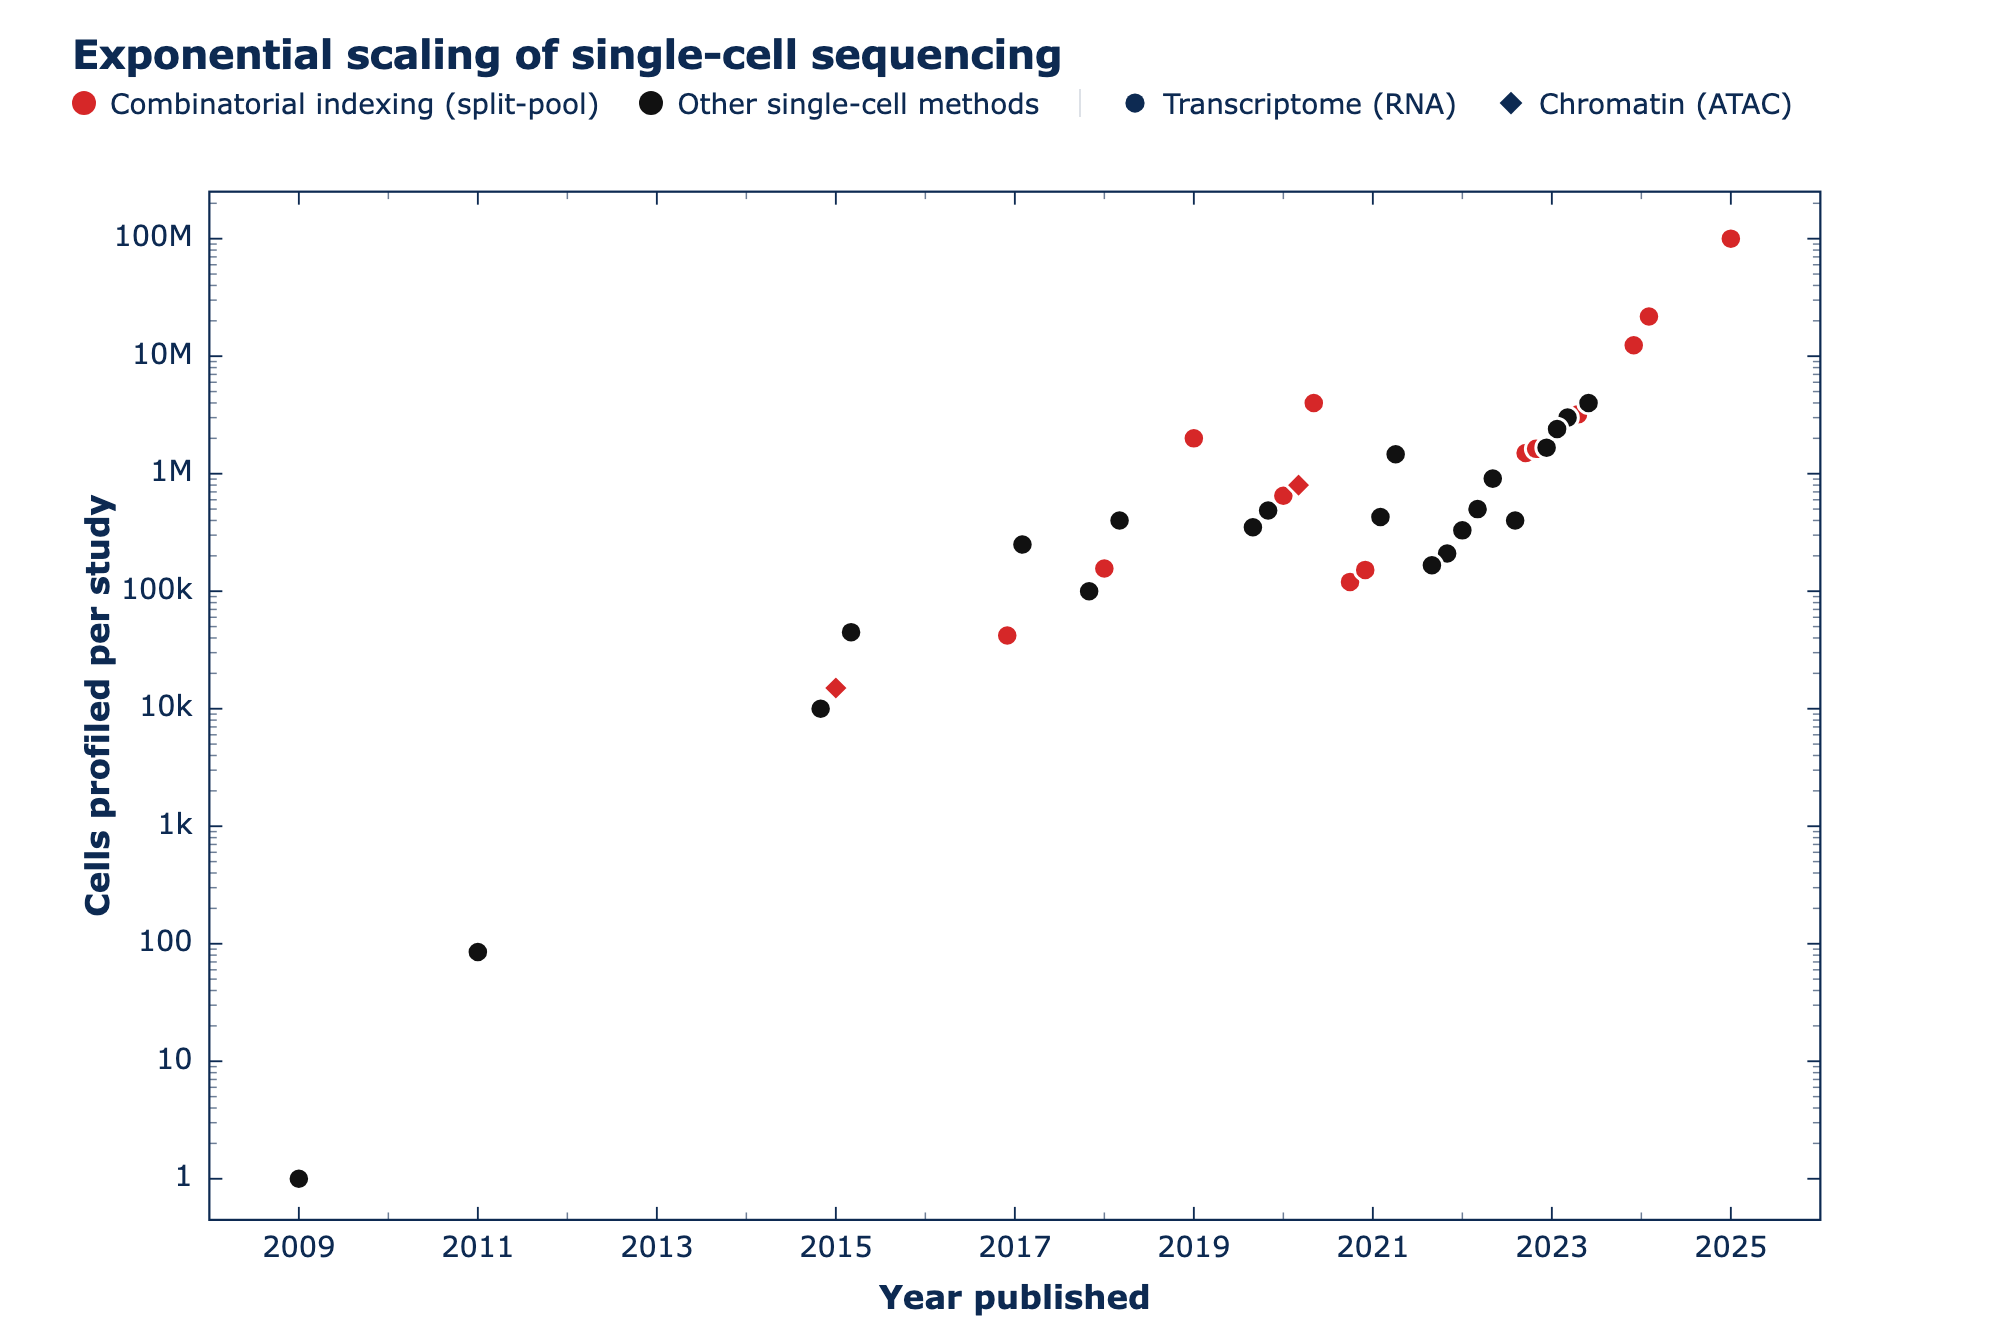
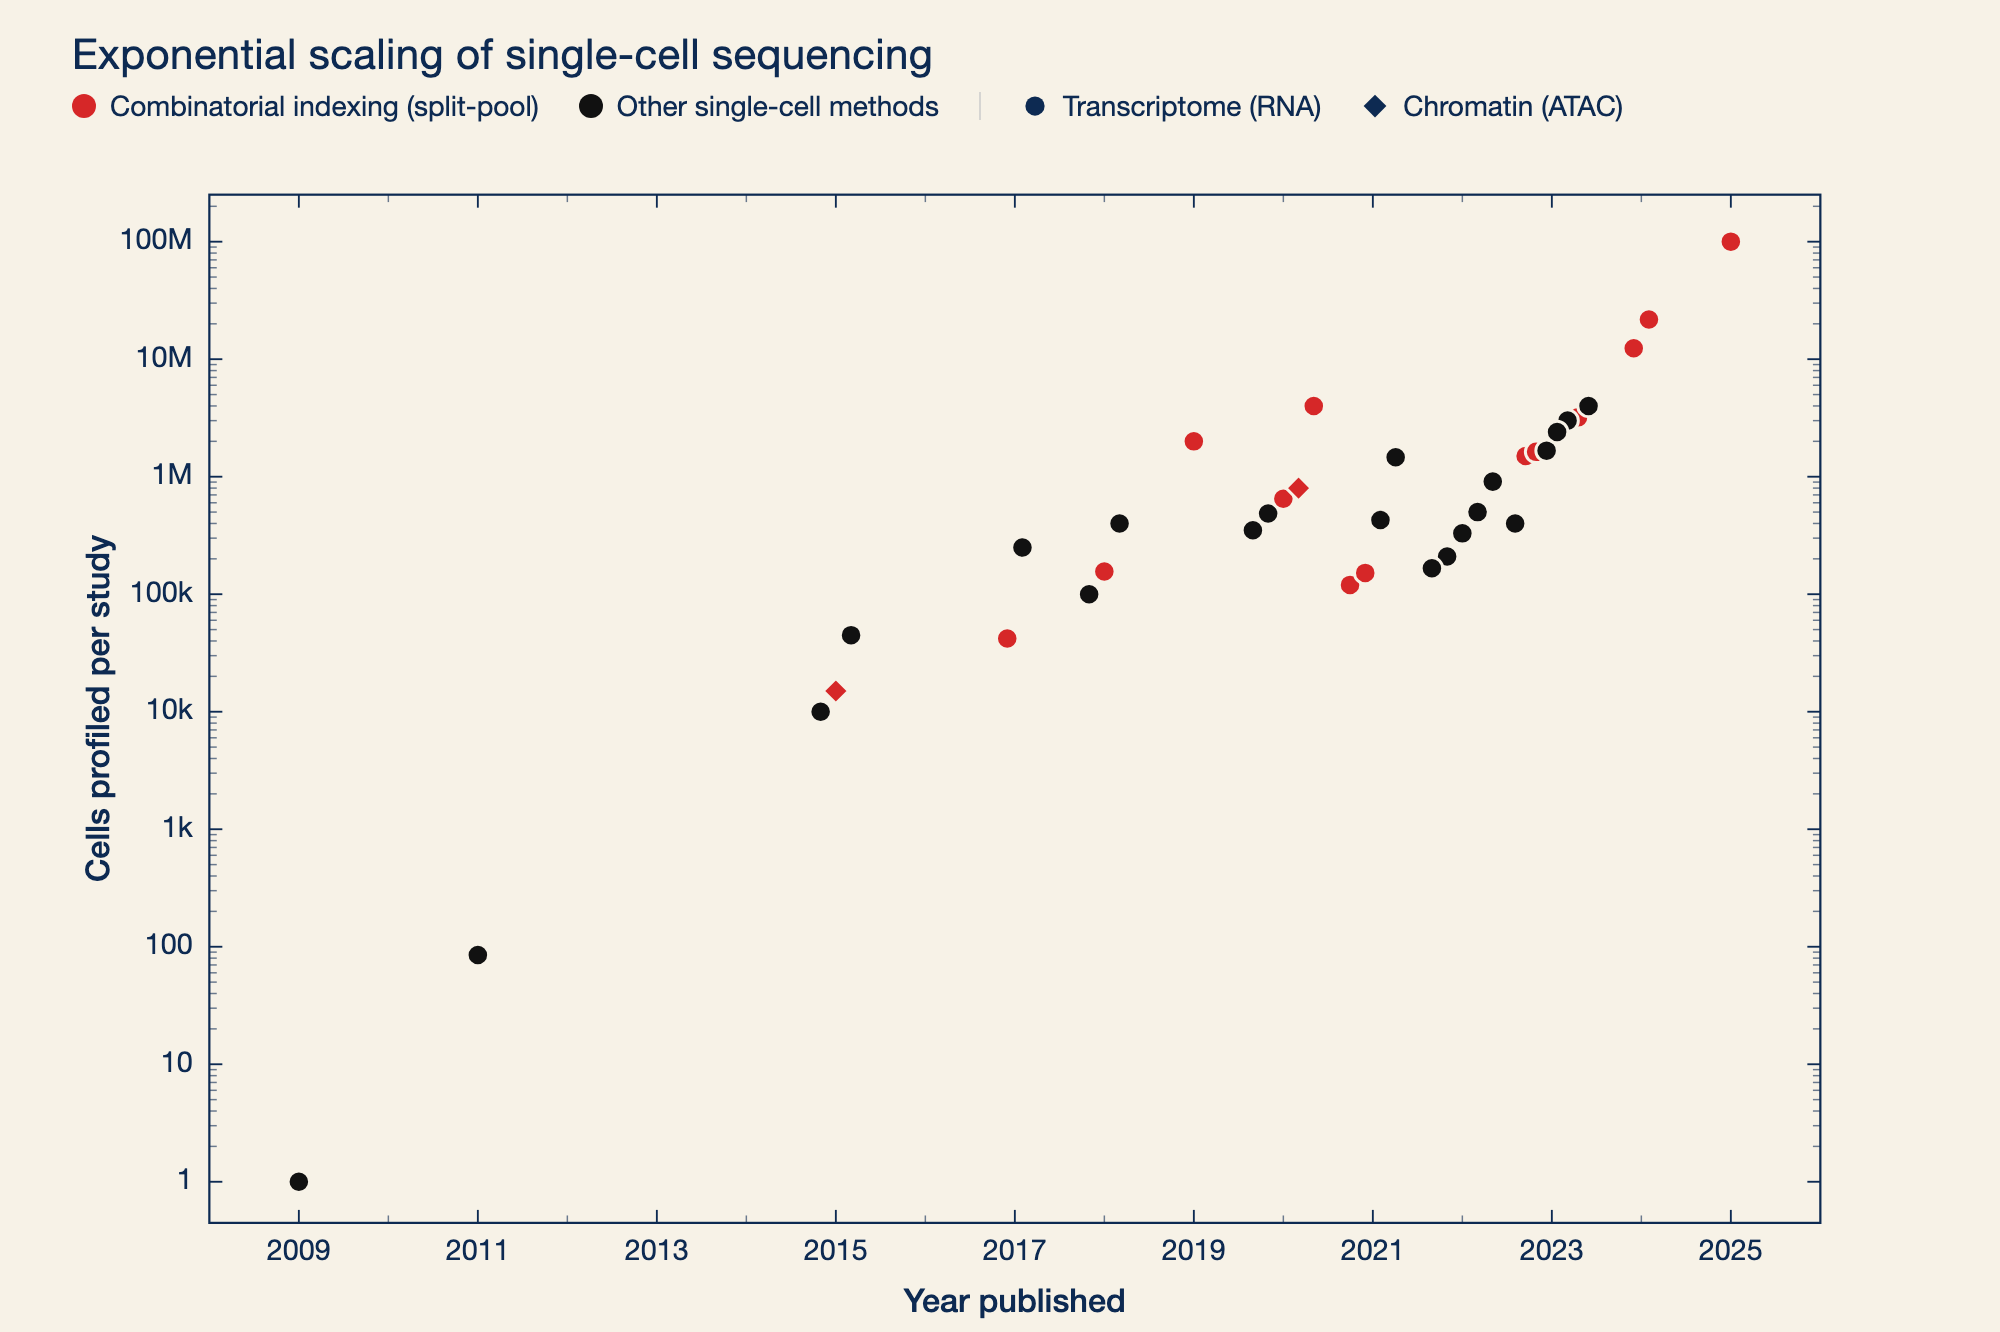
Cream page background + Helvetica-light font

diff --git a/single-cell-scaling.html b/single-cell-scaling.html
@@ -1,8 +1,9 @@
 <title>Exponential scaling of single-cell sequencing</title>
 <style>
+  html, body{ background:#f7f2e7; }   /* cream page background (GitHub Pages / standalone) */
   .viz-root{
     /* Clear background, dark-blue ink. Designed for a light page (e.g. Substack). */
-    --halo:#ffffff;
+    --halo:#f7f2e7;   /* = page cream, so marker keylines blend and only separate overlaps */
     --ink:#0d2a52;          /* dark blue: axes, ticks, titles, labels */
     --ink-soft:#3f5f8c;     /* lighter navy: subtitle / secondary */
     --grid:#d7e0ee;         /* recessive blue-gray gridlines */
@@ -13,7 +14,8 @@
     --link:#2a6fd0;         /* hyperlink blue, kept independent of marker colors */
     --tipbg:#ffffff;
     --shadow:0 4px 16px rgba(13,42,82,0.18),0 0 0 1px rgba(13,42,82,0.08);
-    font-family: "DejaVu Sans", "Bitstream Vera Sans", Verdana, Geneva, Arial, sans-serif;
+    font-family: "Helvetica Neue", Helvetica, Arial, sans-serif;
+    font-weight: 300;
     color: var(--ink);
     background: transparent;   /* clear background (tuned for a light page) */
     max-width: 940px;
@@ -23,10 +25,10 @@
     -webkit-text-size-adjust: 100%;
   }
   .viz-root *{ box-sizing:border-box; }
-  .viz-head h2{ font-size:20px; line-height:1.25; margin:0 0 4px; font-weight:680; letter-spacing:-0.01em; color:var(--ink); }
+  .viz-head h2{ font-size:21px; line-height:1.25; margin:0 0 4px; font-weight:400; letter-spacing:0.01em; color:var(--ink); }
   .viz-head p.sub{ font-size:13.5px; line-height:1.45; margin:0 0 12px; color:var(--ink-soft); }
   .viz-head p.sub b{ color:var(--ink); }
-  .legend{ display:flex; gap:14px 20px; flex-wrap:wrap; margin:0 0 8px; font-size:14px; color:var(--ink); align-items:center; }
+  .legend{ display:flex; gap:14px 20px; flex-wrap:wrap; margin:0 0 8px; font-size:14px; font-weight:400; color:var(--ink); align-items:center; }
   .legend span{ display:inline-flex; align-items:center; gap:7px; }
   .legend .swz{ width:12px; height:12px; border-radius:50%; display:inline-block; box-shadow:0 0 0 2px var(--halo); }
   .legend .shp{ width:14px; height:14px; display:inline-block; }
@@ -39,9 +41,9 @@
   .axistick{ stroke:var(--ink); stroke-width:1; }
   .axistick.minor{ stroke:var(--ink); stroke-width:0.8; opacity:0.6; }
   .spine{ stroke:var(--ink); stroke-width:1.2; fill:none; }
-  .tick{ fill:var(--ink); font-size:15.5px; }
+  .tick{ fill:var(--ink); font-size:15.5px; font-weight:400; }
   .tick.tabnum{ font-variant-numeric:tabular-nums; }
-  .axistitle{ fill:var(--ink); font-size:17.5px; font-weight:600; }
+  .axistitle{ fill:var(--ink); font-size:17.5px; font-weight:500; }
   .plabel{ font-size:13px; fill:var(--ink); paint-order:stroke; stroke:var(--halo); stroke-width:3.5px; stroke-linejoin:round; }
   .plabel.ci{ font-weight:650; }
   .plabel.sc{ font-weight:550; }